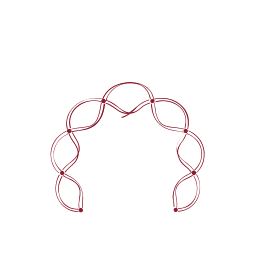
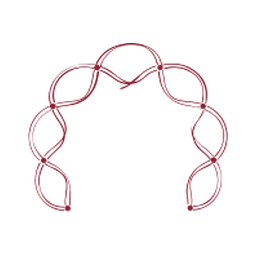
Update Chundadi day and timing, adjust Haldi ferris wheel position on mobile

Changed region(s): [[0.0938, 0.1562, 0.9062, 0.8438]]

diff --git a/src/data/content.js b/src/data/content.js
@@ -12,14 +12,14 @@ export const mantra = {
   shri: 'શ્રી',
   ganesh: '॥ શ્રી ગણેશાય નમઃ ॥',
   jalaram: '॥ શ્રી જલારામ બાપા ની જય ॥',
-  kuldevi: ['કુલદેવી શ્રી હિંગળાજ માતા', 'અને રાજ રાજેશ્વરી અંબાજી મા ની કૃપાથી'],
+  kuldevi: ['॥ કુલદેવી શ્રી હિંગળાજ માતા ॥', '॥ રાજ રાજેશ્વરી અંબાજી મા ની કૃપાથી ॥'],
 }
 
 // MAIN PAGE 1: GANESH
 export const opening = {
   shloka: [
-    'વક્રતુંડ મહાકાય સૂર્યકોટી સમપ્રભ ।',
-    'નિર્વિઘ્નં કુરુ મે દેવ સર્વકાર્યેષુ સર્વદા ॥',
+    'वक्रतुण्ड महाकाय सूर्यकोटि समप्रभ ।',
+    'निर्विघ्नं कुरु मे देव सर्वकार्येषु सर्वदा ॥',
   ],
   intro: 'The Wedding Invite of',
   groom: { name: 'Yatin', parents: '(Son of Sona and Pritesh Karia)' },
@@ -92,8 +92,8 @@ export const events = [
     theme: 'rajputana',
     element: 'knot',
     invocation: { lang: 'sa', text: '॥ શ્રી કૃષ્ણઃ શરણં મમ ॥' },
-    date: 'Saturday, 20th November 2026',
-    schedule: [{ label: 'Timing', time: '6:00 PM onwards', note: '(followed by Dinner)' }],
+    date: 'Friday, 20th November 2026',
+    schedule: [{ label: 'Timing', time: '5:30 PM onwards', note: '(followed by Dinner)' }],
     dressCode: { label: 'Green', colors: ['#2f7d4a'] },
     venue: ['Kalyan Pushti Haveli, Vastrapur', 'Ahmedabad, Gujarat'],
     description:

diff --git a/src/sections/EventPage.jsx b/src/sections/EventPage.jsx
@@ -72,7 +72,7 @@ export default function EventPage({ event }) {
             <span className="animate-spin-slow absolute inset-1 rounded-full border border-dashed border-(--accent-2)/40" />
             <Icon
               name={event.element}
-              className={`size-8 sm:size-9 ${theme.night ? 'brightness-0 invert sepia-[.6] saturate-[2.5]' : 'contrast-125 brightness-90'} drop-shadow-xs`}
+              className={`size-9.5 sm:size-11 ${theme.night ? 'brightness-0 invert sepia-[.6] saturate-[2.5]' : 'contrast-125 brightness-90'} drop-shadow-xs`}
             />
           </span>
         </Reveal>

diff --git a/src/sections/Ganesh.jsx b/src/sections/Ganesh.jsx
@@ -35,7 +35,7 @@ export default function Ganesh() {
       </Reveal>
 
       {/* 2. Vakratunda Mahakaya... (Shlok) */}
-      <Reveal delay={350} lang="gu" className="mt-2.5 font-gujarati text-base leading-relaxed font-semibold text-rust sm:text-xl">
+      <Reveal delay={350} lang="sa" className="mt-2.5 font-devanagari text-base leading-relaxed font-semibold text-rust sm:text-xl">
         {opening.shloka.map((l) => (
           <p key={l}>{l}</p>
         ))}

diff --git a/src/components/ThemeDecor.jsx b/src/components/ThemeDecor.jsx
@@ -316,7 +316,7 @@ export default function ThemeDecor({ theme }) {
               }}
             />
           ))}
-          <FerrisWheel className="absolute right-[3%] bottom-[2%] h-32 w-28 opacity-70 sm:h-48 sm:w-44" />
+          <FerrisWheel className="absolute right-[2%] -bottom-5 sm:bottom-[2%] sm:right-[3%] h-28 w-24 sm:h-48 sm:w-44 opacity-70" />
         </div>
       )
     case 'golden':
